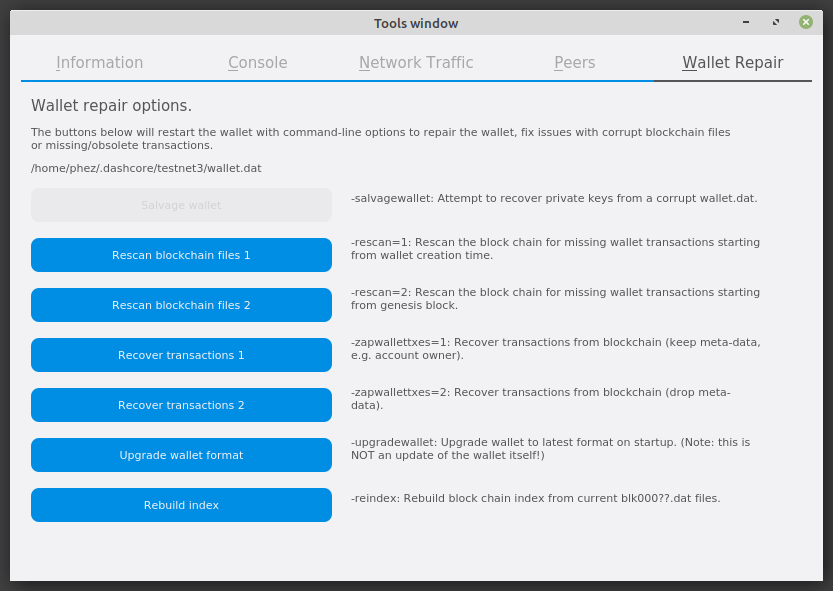
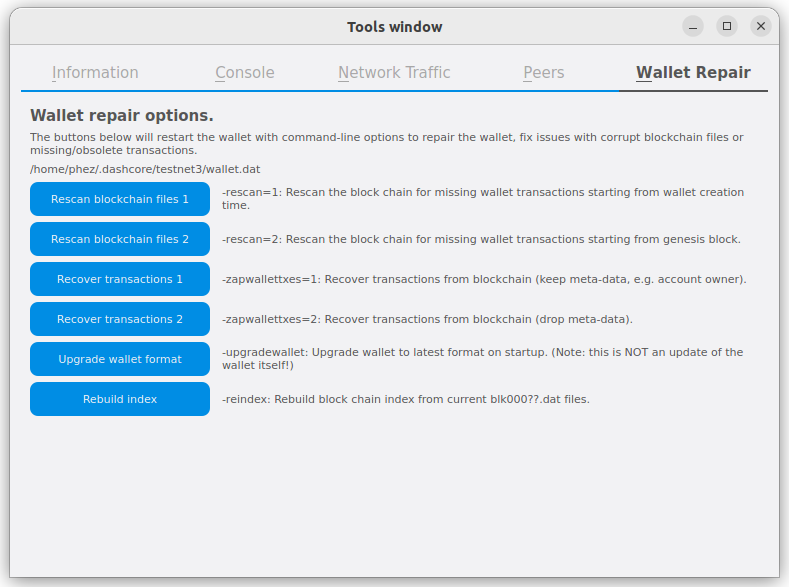
docs: update wallet repair info for v18.0 (#157)
* chore: update Tools -> Wallet repair screenshot

* docs: update wallet repair with note about dash-wallet

Changed region(s): [[0.0, 0.0, 1.0, 1.0]]

diff --git a/wallets/dashcore/interface.rst b/wallets/dashcore/interface.rst
@@ -587,13 +587,6 @@ restart Dash Core with the specified command-line option.
 
    The Wallet Repair tab of the Dash Core Tools dialog
 
-Salvage wallet
-  Salvage wallet assumes wallet.dat is corrupted and cannot be read. It
-  makes a copy of wallet.dat to wallet.<date>.bak and scans it to attempt
-  to recover any private keys. Check your debug.log file after running
-  salvage wallet and look for lines beginning with "Salvage" for more
-  information on operations completed.
-
 Rescan blockchain files 1
   Rescans the already downloaded blockchain for any transactions affecting
   accounts contained in the wallet. This may be necessary if you replace
@@ -624,3 +617,13 @@ Rebuild index
   Discards the current blockchain and chainstate indexes (the database of
   unspent transaction outputs) and rebuilds it from existing block files.
   This can be useful to recover missing or stuck balances.
+
+.. note::
+  The wallet salvage option was moved to the standalone dash-wallet
+  command-line application in Dash Core v18.0. Running dash-wallet
+  with the ``salvage`` command assumes the wallet file provide by
+  the ``-wallet`` parameter  is corrupted and cannot be read. It
+  makes a copy of the wallet file as <wallet name>.<date>.bak and
+  scans it to attempt to recover any private keys.
+
+  Example: ``dash-wallet -wallet=mywallet/wallet.dat salvage``
